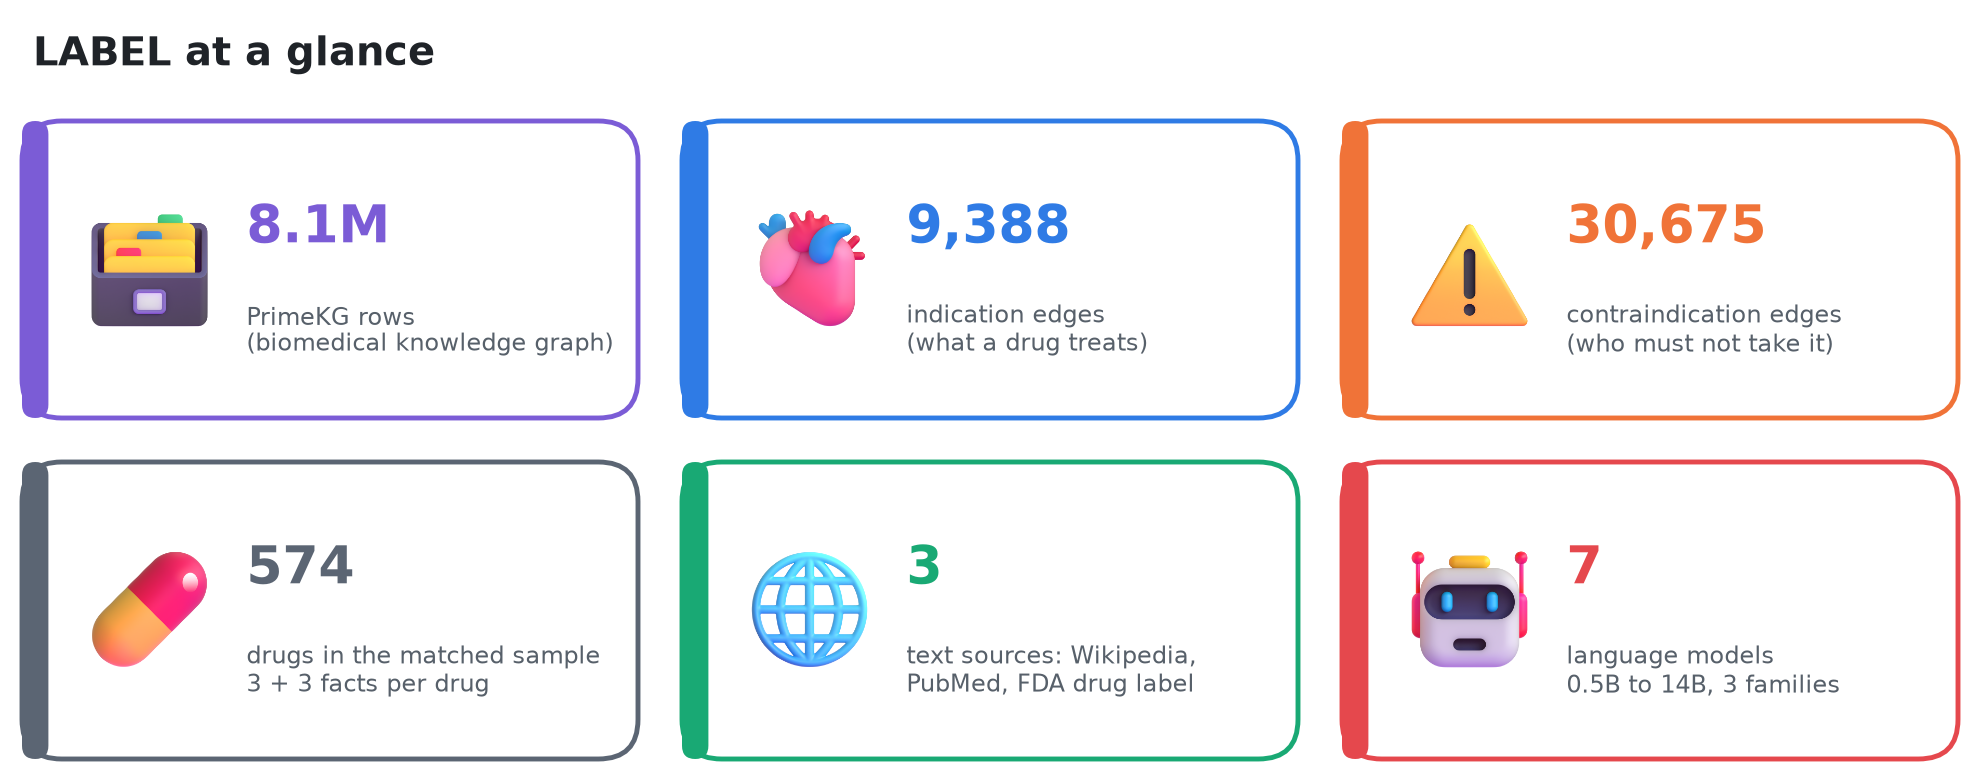
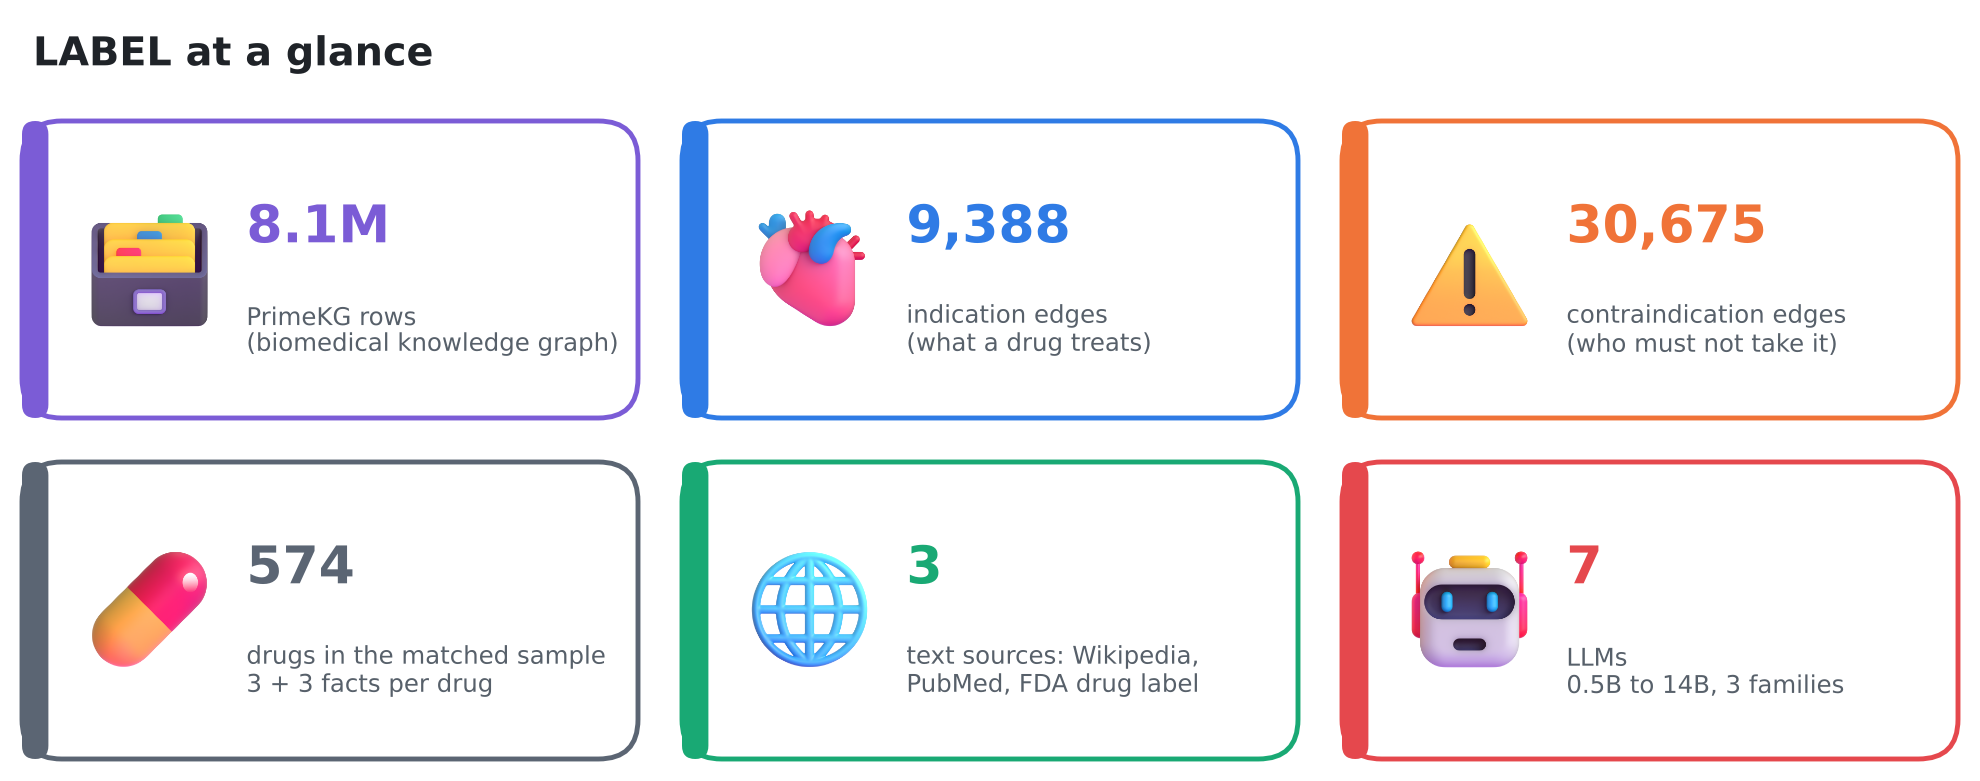
Update README, figures and citation to match the final paper
- Results tables follow the paper: point estimates and p-values, no intervals
- Four naming levels (exact, alternative name, family, none) as in the paper
- Terms match the paper: LLMs, retrieved passage, abstain, random floor, LLM judge
- Limitations and future work follow the paper
- New pipeline and router figures; data card says LLMs
- Card icons moved to docs/icons, since paper/ was removed
- CITATION.cff: Charles V. Stewart

Claude-Session: https://claude.ai/code/session_01HEDTRmULFrWgzZfwL2N7BJ

diff --git a/docs/mk_cards.py b/docs/mk_cards.py
@@ -30,20 +30,20 @@ def cards(out, icons_dir, items, cols, title=None, accent="#2F7BE5"):
 
 B, O, G, P, S_, R = "#2F7BE5", "#F07338", "#19A974", "#7B5CD6", "#5B6573", "#E5484D"
 root = sys.argv[1]
-cards(f"{root}/label/docs/figures/data_at_a_glance.png", f"{root}/label/paper/icons", [
+cards(f"{root}/label/docs/figures/data_at_a_glance.png", f"{root}/label/docs/icons", [
     ("card_file_box", "8.1M", "PrimeKG rows\n(biomedical knowledge graph)", P),
     ("anatomical_heart", "9,388", "indication edges\n(what a drug treats)", B),
     ("warning", "30,675", "contraindication edges\n(who must not take it)", O),
     ("pill", "574", "drugs in the matched sample\n3 + 3 facts per drug", S_),
     ("globe_with_meridians", "3", "text sources: Wikipedia,\nPubMed, FDA drug label", G),
-    ("robot", "7", "language models\n0.5B to 14B, 3 families", R),
+    ("robot", "7", "LLMs\n0.5B to 14B, 3 families", R),
 ], cols=3, title="LABEL at a glance")
 cards(f"{root}/clade/docs/figures/data_at_a_glance.png", f"{root}/clade/paper/icons", [
     ("pill", "856", "PrimeKG questions\n(drugs and diseases)", B),
     ("dna", "900", "GloBI questions\n(species interactions)", G),
     ("card_file_box", "17,801", "MONDO disease\nfamily links", P),
     ("file_cabinet", "77,852", "GloBI taxonomy links\n(species to genus to family)", G),
-    ("robot", "5", "language models\n0.5B to 14B, 3 families", O),
+    ("robot", "5", "LLMs\n0.5B to 14B, 3 families", O),
     ("puzzle_piece", "3", "page types: answer named,\nfamily only, or silent", S_),
 ], cols=3, title="CLADE at a glance")
 print("ok")

diff --git a/README.md b/README.md
@@ -8,7 +8,7 @@
 [![Data](https://img.shields.io/badge/data-PrimeKG%20%C2%B7%20MONDO%20%C2%B7%20FDA-F07537)](DATA.md)
 [![Check](https://img.shields.io/badge/check__results-14%2F14%20identical-1AA874)](#-run-it)
 
-`drug safety` · `knowledge graphs` · `language models` · `retrieval` · `abstention`
+`drug safety` · `knowledge graphs` · `LLMs` · `retrieval` · `abstention`
 
 <img src="docs/figures/fig_pipeline.png" width="95%" alt="LABEL pipeline">
 
@@ -29,9 +29,9 @@ Every drug has two kinds of facts.
 Both facts matter. A wrong limit can hurt a patient.
 
 But people write about the good side much more than the risky side.
-Language models learn from that writing. So they may learn what a drug treats, and miss who must avoid it.
+Large language models (LLMs) learn from that writing. So they may learn what a drug treats, and miss who must avoid it.
 
-> **Our question:** Does text name a drug's limits less often than its efficacy? And do language models follow that gap?
+> **Our question:** Does text name a drug's limits less often than its efficacy? And do LLMs follow that gap?
 
 ---
 
@@ -39,9 +39,9 @@ Language models learn from that writing. So they may learn what a drug treats, a
 
 - 🔎 **We measure** how often text names each drug fact. We use three sources: Wikipedia, PubMed, and the FDA drug label.
 - ⚖ **We compare** efficacy and limits *inside the same drug*. So a famous drug cannot skew the result.
-- 🤖 **We test** 7 language models on the same facts, from 0.5B to 14B parameters.
-- 📄 **We give** the models a page to read, and we check if the page helps.
-- 🧭 **We present** a simple rule: ask the FDA label about limits, not prose.
+- 🤖 **We test** 7 LLMs on the same facts, from 0.5B to 14B parameters.
+- 📄 **We give** the models a retrieved passage, and we check if it helps.
+- 🧭 **We test** a simple routing rule: ask the FDA label about limits, not prose.
 
 We call the gap the **LABEL asymmetry**.
 
@@ -115,22 +115,23 @@ flowchart TD
     B --> C1["📖 Wikipedia"]:::t
     B --> C2["🔬 PubMed"]:::t
     B --> C3["🏷 FDA label"]:::t
-    C1 & C2 & C3 --> D["🔎 Name match, 5 tiers<br/>exact · synonym · common name<br/>· family only · none"]:::t
+    C1 & C2 & C3 --> D["🔎 Name match, 4 levels<br/>exact · alternative name<br/>· family only · none"]:::t
     D --> E["⚖ Within-drug odds ratio<br/>uses vs. limits"]:::r
-    B --> F["🤖 Ask 7 models<br/>closed book, 5 options"]:::m
+    B --> F["🤖 Ask 7 LLMs<br/>closed book, 5 options"]:::m
     F --> G["🧪 Harder options<br/>+ 'Not enough information'"]:::m
-    G --> H["📄 Give the model a page<br/>named · family only · silent"]:::m
+    G --> H["📄 Give the model a passage<br/>named · family only · silent"]:::m
     E & H --> I["📊 Results + 🧭 routing rule"]:::r
 ```
 
 **In plain steps:**
 
 1. 💊 We pick 574 drugs. Each drug gives us 3 uses and 3 limits. So both sides come from the same drugs.
-2. 🔎 We look for each disease name in the drug's text. We accept the exact name, a synonym, or a common name. We note when the text names only the disease family.
+2. 🔎 We look for each disease name in the drug's text. We accept the exact MONDO name or an alternative name (a Wikipedia redirect). We note when the text names only the disease family. Names shorter than four characters are skipped, and a random floor of unrelated diseases measures chance matches.
 3. ⚖ We compare uses and limits with a within-drug odds ratio. An odds ratio of 1 means no gap.
 4. 🤖 We ask each model a 5-option question with no text ("closed book").
 5. 🧪 We make the question harder: the wrong options come from the same disease family, and we add "Not enough information to tell".
-6. 📄 We hand the model a page. The page names the disease, names only its family, or says nothing.
+6. 📄 We hand the model a retrieved passage. The passage names the disease, names only its family, or says nothing.
+7. 🏷 We swap the prose passage for a passage from the whole FDA label, to test routing.
 
 ### 🤖 The models
 
@@ -150,13 +151,13 @@ All models run on CPU in fp32. We score each option by its log-probability.
 
 <div align="center"><img src="docs/figures/fig_coverage.png" width="60%" alt="Coverage"></div>
 
-| Source | ✅ Uses named | ⛔ Limits named | Within-drug OR [95% CI] |
-|---|---:|---:|---|
-| 📖 Wikipedia | 20.3% | 9.8% | **2.43** [1.98, 2.98] |
-| 🔬 PubMed | 26.3% | 11.4% | **2.77** [2.30, 3.33] |
-| 📖 + 🔬 Both | 29.0% | 15.9% | **2.19** [1.85, 2.59] |
+| Source | ✅ Uses named | ⛔ Limits named | Within-drug OR | p |
+|---|---:|---:|---:|---:|
+| 📖 Wikipedia | 20.3% | 9.8% | **2.43** | 2e-18 |
+| 🔬 PubMed | 26.3% | 11.4% | **2.77** | 5e-29 |
+| 📖 + 🔬 Both | 29.0% | 15.9% | **2.19** | 2e-20 |
 
-Intervals use the Robins-Breslow-Greenland variance.
+The PubMed search spends half its budget on adverse effects and contraindications. A single general search gives the same odds ratio (2.77).
 
 **What it means:** in every prose source, a limit is less than half as likely to show up as a use of the same drug.
 
@@ -166,15 +167,16 @@ Intervals use the Robins-Breslow-Greenland variance.
 
 | Source | ✅ Uses | ⛔ Limits | OR |
 |---|---:|---:|---|
-| 🏷 Whole FDA label (472 drugs) | 23.7% | 22.9% | **1.05** [0.88, 1.25] |
-| 🏷 Only its "Contraindications" section | – | 2.6% | – |
+| 🏷 Whole FDA label (472 drugs) | 23.7% | 22.9% | **1.05** (p = 0.62) |
+| 🏷 Only its "Contraindications" section | 19.1% | 2.6% | 9.85 |
+| 📖 + 🔬 + 🏷 All three | 34.0% | 26.7% | 1.43 |
 
 <div align="center"><img src="docs/figures/fig_degree.png" width="60%" alt="Degree"></div>
 
-The gap holds for drugs with few edges and drugs with many. Prose favors uses in every group. The whole label does not.
+The prose gap is widest for drugs with few facts (+13.9 points in Wikipedia for 3 to 5 facts) and holds when the edge count is held fixed in a logistic model. Prose favors uses in every group. The whole label does not.
 
 **What it means:** the same matcher finds limits fine in the label. So the gap comes from the prose, not from our matcher.
-One surprise: the label rarely lists these limits in its own *Contraindications* section. They sit in warnings and other sections.
+One surprise: the label rarely lists these limits in its own *Contraindications* section. They sit in the Boxed Warning, Warnings and Precautions and other sections. Of the 1,172 limits that prose misses, the label names 11.4%, more than twice its rate for missed uses (5.1%).
 
 ### 3⃣ Bigger models learn uses, not limits
 
@@ -189,34 +191,34 @@ One surprise: the label rarely lists these limits in its own *Contraindications*
 | Qwen2.5-14B | 49.8 | 35.8 | 27.2 | +22.7 |
 
 Accuracy in %, closed book, chance = 20%.
-**What it means:** use accuracy climbs with size. Limit accuracy stays near chance at every size.
+**What it means:** use accuracy climbs with size (+18.3 points from 0.5B to 14B). Limit accuracy stays near chance at every size (+5.0 points).
 
 ### 4⃣ Harder questions: each model fails in its own way
 
 <div align="center"><img src="docs/figures/fig_failure.png" width="60%" alt="Failure styles"></div>
 
-| Model | ✅ Uses correct | ⛔ Limits correct | Gap | ⛔ Wrong | ⛔ Declined | ⛔ Precision |
+| Model | ✅ Uses correct | ⛔ Limits correct | Gap | ⛔ Wrong | ⛔ Abstained | ⛔ Precision |
 |---|---:|---:|---:|---:|---:|---:|
 | Qwen2.5-0.5B | 36.0 | 28.1 | +7.9 | 71.4 | 0.5 | 28.2 |
 | Qwen2.5-7B | 56.0 | 25.1 | +30.9 | 24.1 | 50.7 | 51.0 |
 | OLMo-2-7B | 56.0 | 33.0 | +23.0 | 64.0 | 3.0 | 34.0 |
 | Granite-3.1-8B | 58.7 | 12.8 | **+45.9** | 19.7 | 67.5 | 39.4 |
 
-- 🎲 **Qwen2.5-0.5B and OLMo-2-7B guess.** They almost never decline, so most limit answers are wrong.
-- 🙅 **Qwen2.5-7B and Granite-3.1-8B decline.** They say "Not enough information" for half or more of the limits.
+- 🎲 **Qwen2.5-0.5B and OLMo-2-7B guess.** They almost never abstain, so most limit answers are wrong.
+- 🙅 **Qwen2.5-7B and Granite-3.1-8B abstain.** They say "Not enough information" for half or more of the limits.
 - Either way, no model knows the limits well.
 
-### 5⃣ A page helps only if it names the disease
+### 5⃣ A passage helps only if it names the disease
 
 <div align="center"><img src="docs/figures/fig_retrieval.png" width="60%" alt="Retrieval"></div>
 
-| Page type | ✅ Uses: gain | ⛔ Limits: gain | ⛔ Declines (no page → page) |
+| Passage | ✅ Uses: gain | ⛔ Limits: gain | ⛔ Abstentions (closed book → passage) |
 |---|---:|---:|---|
 | 🟢 Names the disease | +11.1 | +14.2 | 36.2 → 41.6 |
 | 🟡 Names only the family | −8.2 | +0.3 | 42.1 → 54.4 |
 | ⚪ Says nothing | −11.3 | −8.9 | 43.3 → 76.2 |
 
-Pooled over the three 7–8B models. The gap between uses and limits on a named page is −3.1 [−11.6, +5.1], so it is not significant.
+Pooled over the three 7B to 8B models. On a named passage, the difference between uses and limits is not significant, and every model gains at least as much on limits.
 **What it means:** when the text names the limit, the model reads it just fine. The real problem is that prose rarely names it.
 
 ### 6⃣ Control: the gap is about limits, not about any second relation
@@ -227,42 +229,44 @@ We run the same test on Hetionet, with two *positive* relations: **treats** and 
 |---|---:|---:|---|
 | Named in Wikipedia | 57.3% | 56.1% | 1.05 (p = 0.70) |
 
+Among the 51 drugs with both relations, the within-drug odds ratio is 2.48, but it is not significant once the edge count is held fixed (p = 0.16), and its sign flips across edge-count groups.
+
 **What it means:** two kinds of "good" facts show no gap. The gap appears only when one side is a risk.
 
 ### 7⃣ The naming sentence really states the relation
 
 A disease name in the text does not always say *how* the drug and the disease are linked. So we check each naming sentence.
 
-- 🤖 **Model judge.** Qwen2.5-7B reads the sentence and picks: *treats*, *must not be used*, *may cause or worsen it / needs caution*, or *no link*.
+- 🤖 **LLM judge.** Qwen2.5-7B reads the sentence and picks: *treats*, *must not be used*, *may cause or worsen it / needs caution*, or *no link*.
 - 👥 **Four annotators** label 160 named sentences with the relation hidden (Wikipedia and label, 40 per relation each).
 - 🔍 **Recall check.** The same annotators read 50 label *Contraindications* sections where the matcher found nothing.
 
 | Source | OR, named | OR, sentence states the relation |
 |---|---|---|
-| 📖 Wikipedia | 2.68 [2.16, 3.34] | **2.70** [2.15, 3.39] |
-| 🔬 PubMed | 2.83 [2.34, 3.41] | **2.09** [1.71, 2.57] |
-| 🏷 Whole FDA label | 1.05 [0.88, 1.25] | **0.88** [0.73, 1.07] |
+| 📖 Wikipedia | 2.68 | **2.70** |
+| 🔬 PubMed | 2.83 | **2.09** |
+| 🏷 Whole FDA label | 1.05 | **0.88** |
 
 | Check | Result |
 |---|---|
 | Annotator agreement | Fleiss' κ = **0.89** (audit), **0.92** (recall) |
 | Judge vs. annotators | **95.5%** agreement, κ = 0.92 |
 | Named sentences that state the relation | **88.6%** of uses, **93.3%** of limits |
-| Limits written as warnings / formal contraindications | **82–83%** / 10–11% |
-| Recall check: fact absent from the section | **45 of 50**; only 3 are worded differently |
+| Limits written as warnings / formal contraindications | **82% to 83%** / 10% to 11% |
+| Recall check: fact absent from the section | **45 of the 49** with a majority vote; only 3 are worded differently |
 
 **What it means:** the gap holds when each sentence must state the relation, and the label stays even. Most of PrimeKG's "contraindications" are written as warnings, so we count both as safety statements.
 
 ### 8⃣ Routing safety questions to the label helps when the label names the fact
 
-We ask the same 726 harder questions with a page cut from the drug's whole FDA label, and compare it with the usual prose page.
+We ask the same 726 harder questions with a passage cut from the drug's whole FDA label, and compare it with the usual prose passage.
 
-| ⛔ Limit questions | Prose page | Label page | Difference [95% CI] |
+| ⛔ Limit questions | Prose passage | Label passage | Difference |
 |---|---:|---:|---|
-| 🟢 Label names the answer (135) | 40.0 | 55.8 | **+15.8** [8.6, 23.2] |
-| ⚪ Label is silent (211) | 17.1 | 12.2 | −4.9 [−8.2, −1.7] |
+| 🟢 Label names the answer (135) | 40.0 | 55.8 | **+15.8** |
+| ⚪ Label is silent (211) | 17.1 | 12.2 | −4.9 |
 
-Accuracy in %, pooled over the three 7–8B models. For ✅ use questions the label adds little (+3.4 when it names them) and hurts when it is silent (−11.0), so uses stay with prose. Over all questions, routing changes accuracy by +1.5 [−0.2, +3.2].
+Accuracy in %, pooled over the three 7B to 8B models. When the label names the answer, abstentions also fall by 12.1 points. For ✅ use questions the label adds little (+3.4 when it names them) and hurts when it is silent (−11.0), so uses stay with prose.
 **What it means:** send safety questions to the label, but first check that the label names the condition.
 
 ---
@@ -279,18 +283,19 @@ Accuracy in %, pooled over the three 7–8B models. For ✅ use questions the la
 
 ## ⚠ Limitations
 
-- 🔤 Our matcher works on names. In a check of 50 label sections it missed 3 limits written in other words.
-- 🗄 PrimeKG is our ground truth. Some of its edges may be wrong or old.
-- 🌐 We measure today's Wikipedia and PubMed. Both change over time.
-- 🤖 We test open models up to 14B. We do not test large closed models.
-- 🇺🇸 The FDA label covers US drugs only. 472 of our 574 drugs have one.
+- 🔗 **Corpus to model is a correlation.** We do not see the models' pretraining data, so we do not show the causal chain. PubMed coverage from abstracts is a lower bound for the full literature.
+- 🔤 **String matching.** The matcher can miss paraphrases and match a disease mentioned in passing. The random floor keeps chance matches under 1.3% in prose and 2.9% in labels, and the LLM judge checks that the sentence states the relation.
+- 🤖 **Models and format.** The scaling curve uses one family (Qwen2.5). The harder tests add OLMo-2 and Granite-3.1 at one size each. Multiple choice measures recognition, an upper bound on free-form recall.
+- 🗄 **Graph granularity.** Even the whole label names only 22.9% of PrimeKG's contraindications, partly because PrimeKG often records a subtype (*adult-onset myasthenia gravis*) while text states the parent (*myasthenia gravis*).
+- 🇺🇸 **US labels only.** 472 of our 574 drugs have an FDA label.
 
 ## 🔭 Future work
 
-- 🔁 Build and evaluate the full agent: we test only its routing step.
-- 🌍 Add labels from other agencies (EMA, PMDA) and other languages.
-- 📈 Test larger and closed models with the same questions.
-- 🧬 Look for the same gap in other "good vs. risk" pairs, like gene benefits and side effects.
+- 🧬 **Trace the pretraining data.** OLMo-2 releases its training data, so the link between corpus and model can be tested directly by counting each fact in the tokens.
+- 📚 **Wider audit.** Full-text articles, clinical guidelines, other languages, and other safety relations such as drug interactions.
+- 💬 **Beyond multiple choice.** Free-form answers and medical LLMs.
+- 🩺 **Clinical review** of facts that no text names, to separate graph granularity from true omission.
+- 🔁 **The full agent.** Build and evaluate the relation-aware agent above end to end, with a verifier that checks every safety answer against the label.
 
 ---
 
@@ -309,8 +314,8 @@ bash run_all.sh
 bash run_all.sh --status
 
 # 4. Relation check, annotation scoring and routing test (after step 3)
-bash relcheck.sh quick               # keyword check, RBG intervals, blank audit sheets
-bash relcheck.sh submit              # model judge + label-page runs (SLURM)
+bash relcheck.sh quick               # keyword check, odds ratios, blank audit sheets
+bash relcheck.sh submit              # LLM judge + label-passage runs (SLURM)
 bash relcheck.sh report              # judge and routing tables
 bash relcheck.sh audit AUDIT.csv RECALL.csv   # one *_label column per annotator
 ```
